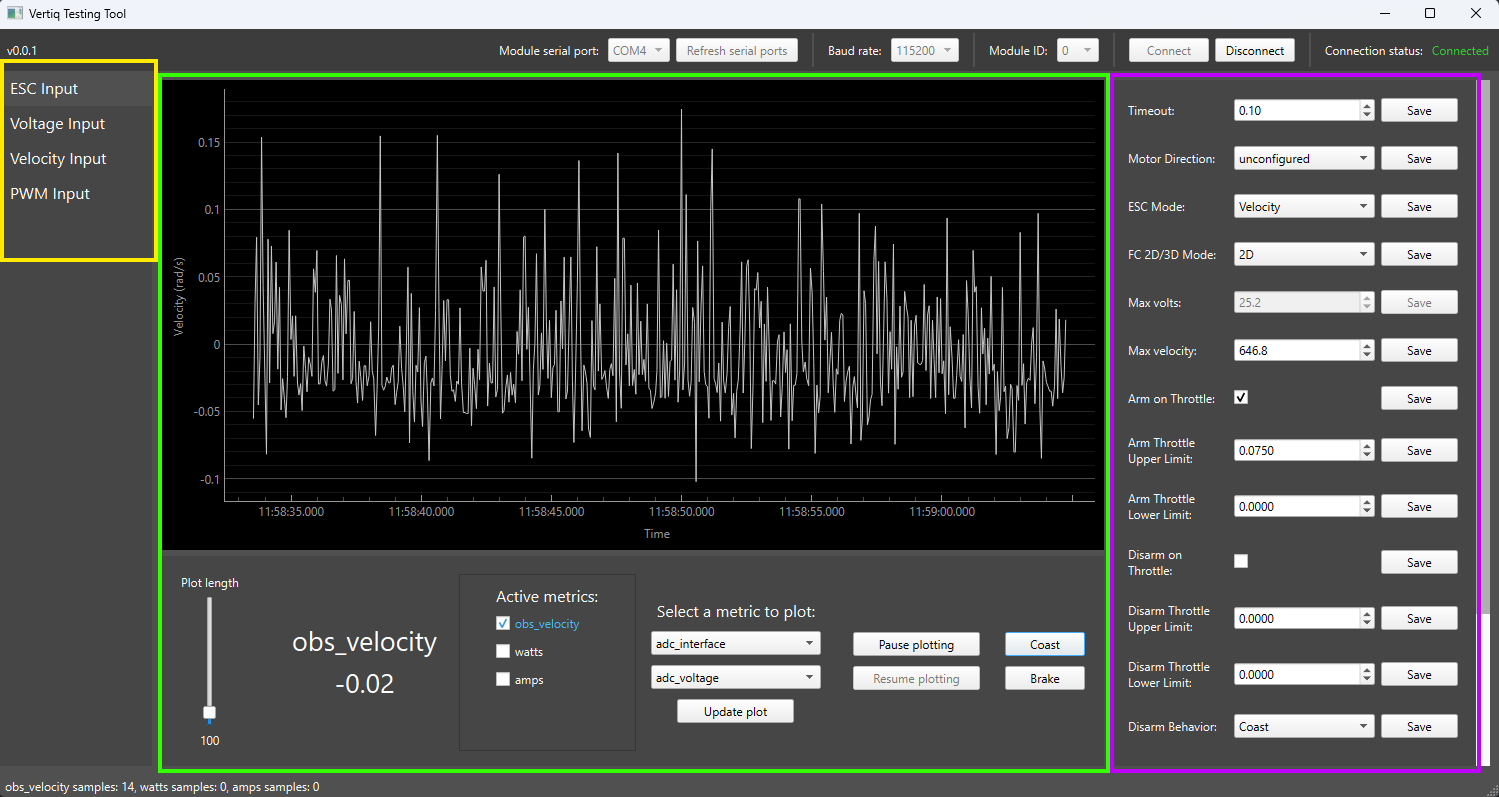
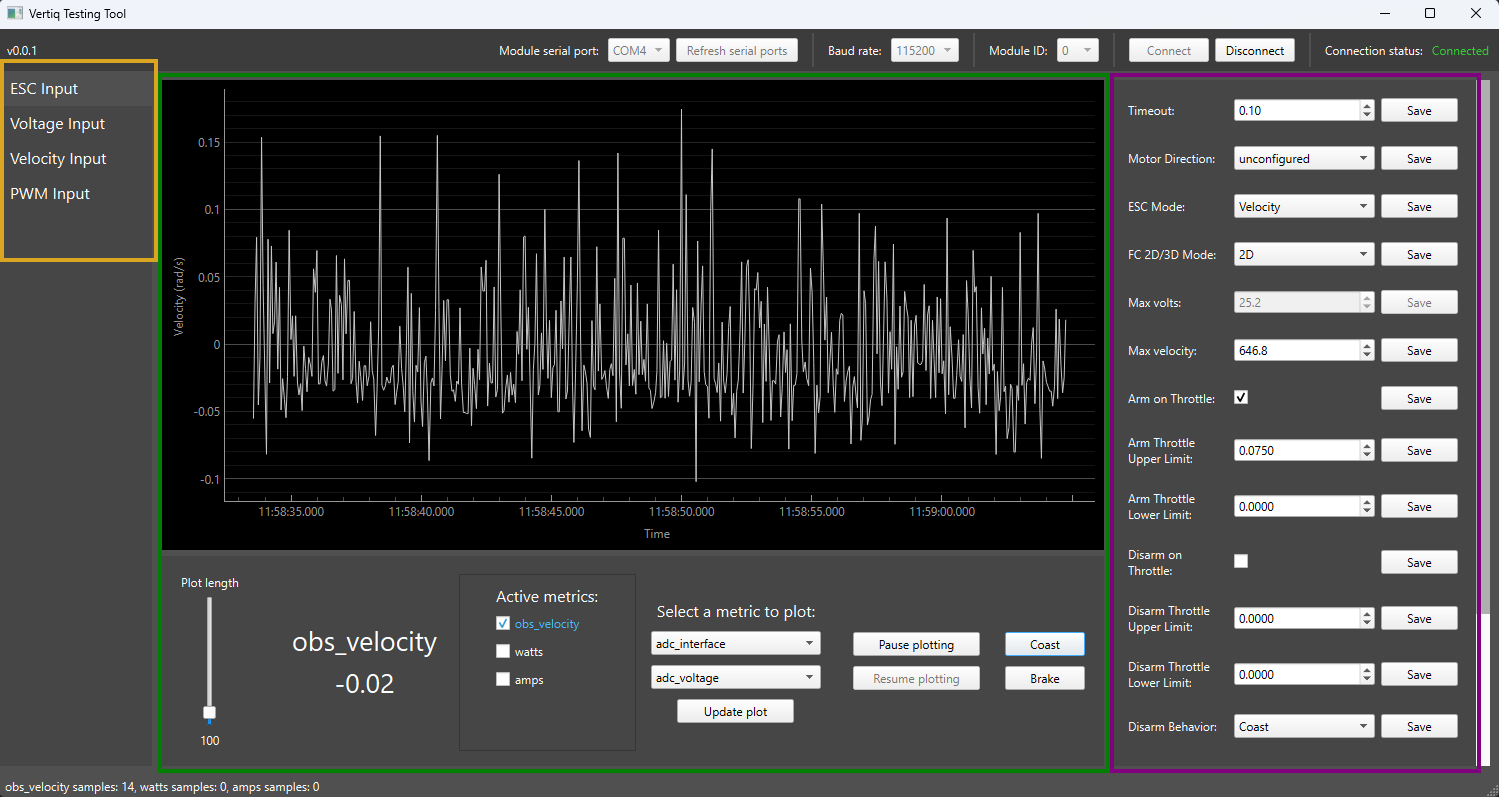
updated screenshots and added new colors

Changed region(s): [[0.0, 0.0602, 1.0, 0.9937]]

diff --git a/docs/vertiq_testing_tool/vertiq_testing_tool_start_guide.rst b/docs/vertiq_testing_tool/vertiq_testing_tool_start_guide.rst
@@ -49,9 +49,10 @@ Once the application loads, you will be presented with the welcome screen. Follo
 
 .. image:: ../_static/vertiq_testing_tool_pictures/esc_input.png
 
-Once connected, you should see the tab as shown above.
+Once connected, you should see the ESC Input tab as shown above.
 
-#. The :gold:`Tabs` section provides different widgets for controlling your module. ESC Input provides configuration parameters necessary for integrating properly with a flight controller as well as simulating flight controller throttle commands via the IQUART raw value message.
+#. The :goldenrod:`Tabs` section provides different widgets for controlling your module. ESC Input provides configuration parameters necessary for integrating properly with a flight controller as well as simulating flight controller throttle commands via the IQUART raw value message. 
+   Please refer to the :ref:`Throttle Command and Modes <throttle_iquart_ref>` documentation to learn more about ESC Input.
 
 #. The :green:`Plotting` section contains a live plot in the upper section and a dashboard with widgets to control the live plot in the lower section.
 
@@ -59,6 +60,10 @@ Once connected, you should see the tab as shown above.
 
 In the ESC Input tab shown above, the Control Panel contains the same parameters necessary to configure your module for use with a flight controller as in this :ref:`Control Center example <flight_controller_config_with_control_center>`.
 
+.. note::
+    .. image:: ../_static/vertiq_testing_tool_pictures/module_id_widget.png
+
+    If multiple modules have been connected as described in the :ref:`Multiple Module Wiring <connection_guide>` section, you can communicate with each module by changing the Module ID in the widget shown above.
 
 ==================
 Continuous command
@@ -77,10 +82,10 @@ Live Plotting and Active Metrics
 
 .. image:: ../_static/vertiq_testing_tool_pictures/voltage_input_command_example.png
 One main feature of Vertiq Testing Tool is the ability to plot any supported metric. 
-Please refer to the :ref:`IQUART Client Table Reference tables <iquart_client_reference_tables>` to find the endpoints that allows for 'get' in the Access field, 
-as these are the supported metrics that can be plotted.
+Please refer to the :ref:`IQUART Client Table Reference tables <iquart_client_reference_tables>` to find the endpoints that allow for 'get' in the Access field, 
+as these are the supported metrics that can be plotted. Also, please make sure that your module supports that client by checking its :ref:`Module Family page <module_families>`.
 
-For example, let's command the module to a 3V drive voltage using the Control Panel in the Voltage Input tab and plot the *drive_volts* from the Brushless Drive client.
+For example, let's command the module to a 3V drive voltage using the Control Panel in the Voltage Input tab and plot the value of *drive_volts* from the Brushless Drive client.
 
 .. note::
     Please refer to the :ref:`Velocity and Voltage Based Control Mechanisms <manual_velocity_control_mechanisms>` documentation to learn more about Velocity and Voltage Control.
@@ -97,7 +102,7 @@ In order to visualize the module's drive voltage, navigate to the widget labeled
 Please refer to :ref:`Getting Started with Vertiq's APIs <getting_started_with_apis>` to learn more about IQUART clients.
 
 In the upper dropdown menu, select *brushless_drive*. This corresponds to the :ref:`Brushless Drive <brushless_drive>` client.
-In the lower dropdown menu, select *drive_volts*, which corresponds with brushless drive's drive_volts entry.
+In the lower dropdown menu, select *drive_volts*, which corresponds with brushless drive's *drive_volts* entry.
 Now, click 'Update Plot'. 
 
 Notice that the *drive_volts* metric is added to the 'Active metrics' widget. By default, *obs_velocity*, *watts*, and *amps* are preloaded in the 'Active metrics' widget.

diff --git a/docs/index.rst b/docs/index.rst
@@ -112,6 +112,8 @@ use the guides found on the left hand side.
 
 Need to contact us? Please use support@vertiq.co.
 
+.. _module_families:
+
 .. list-table:: Vertiq Module Families
    :class: borderless
    :align: center

diff --git a/docs/text_colors.rst b/docs/text_colors.rst
@@ -27,3 +27,9 @@
     <style> .purple {color:purple} </style>
 
 .. role:: purple
+
+.. raw:: html
+
+    <style> .goldenrod {color:goldenrod} </style>
+
+.. role:: goldenrod 
